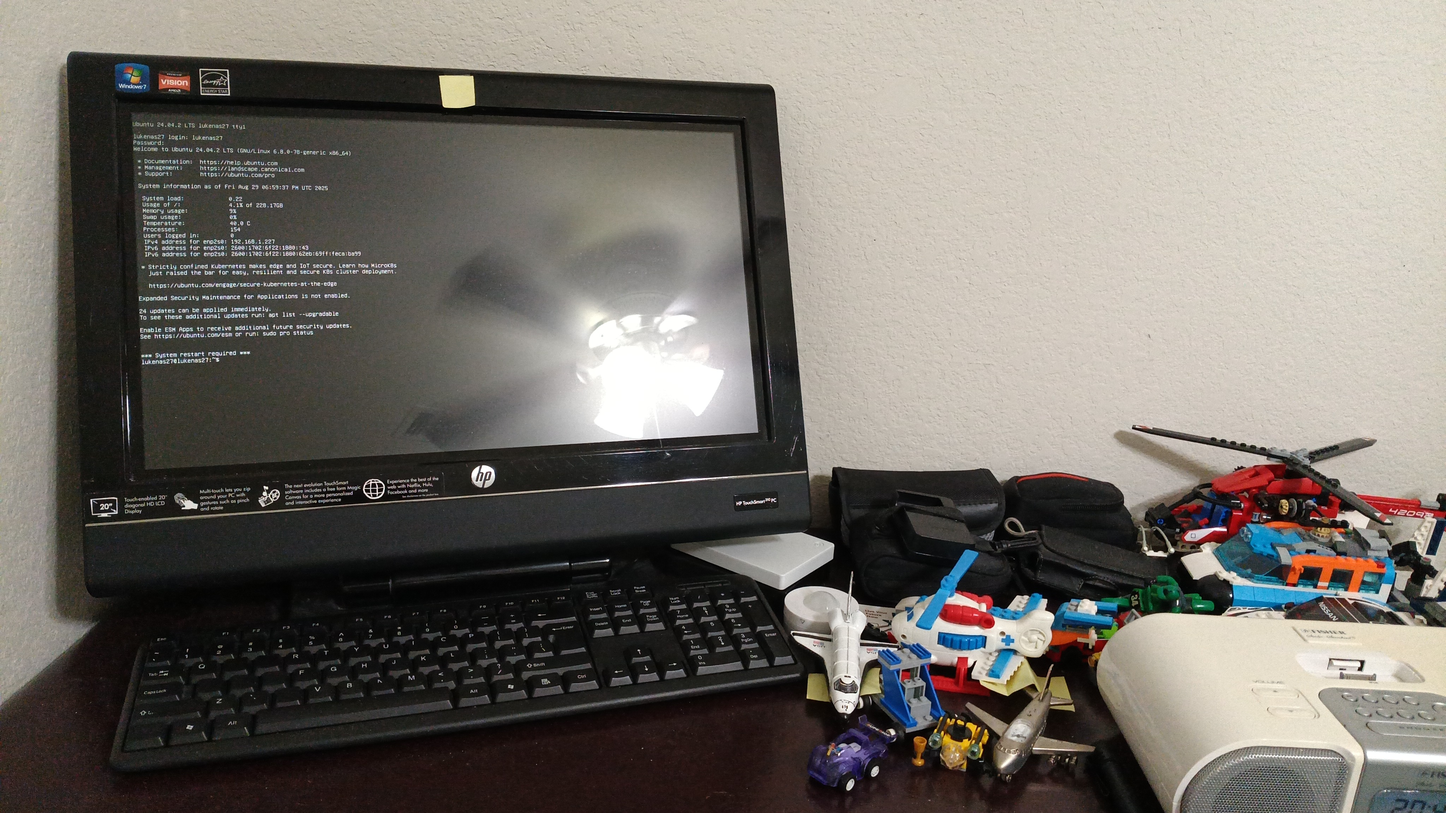
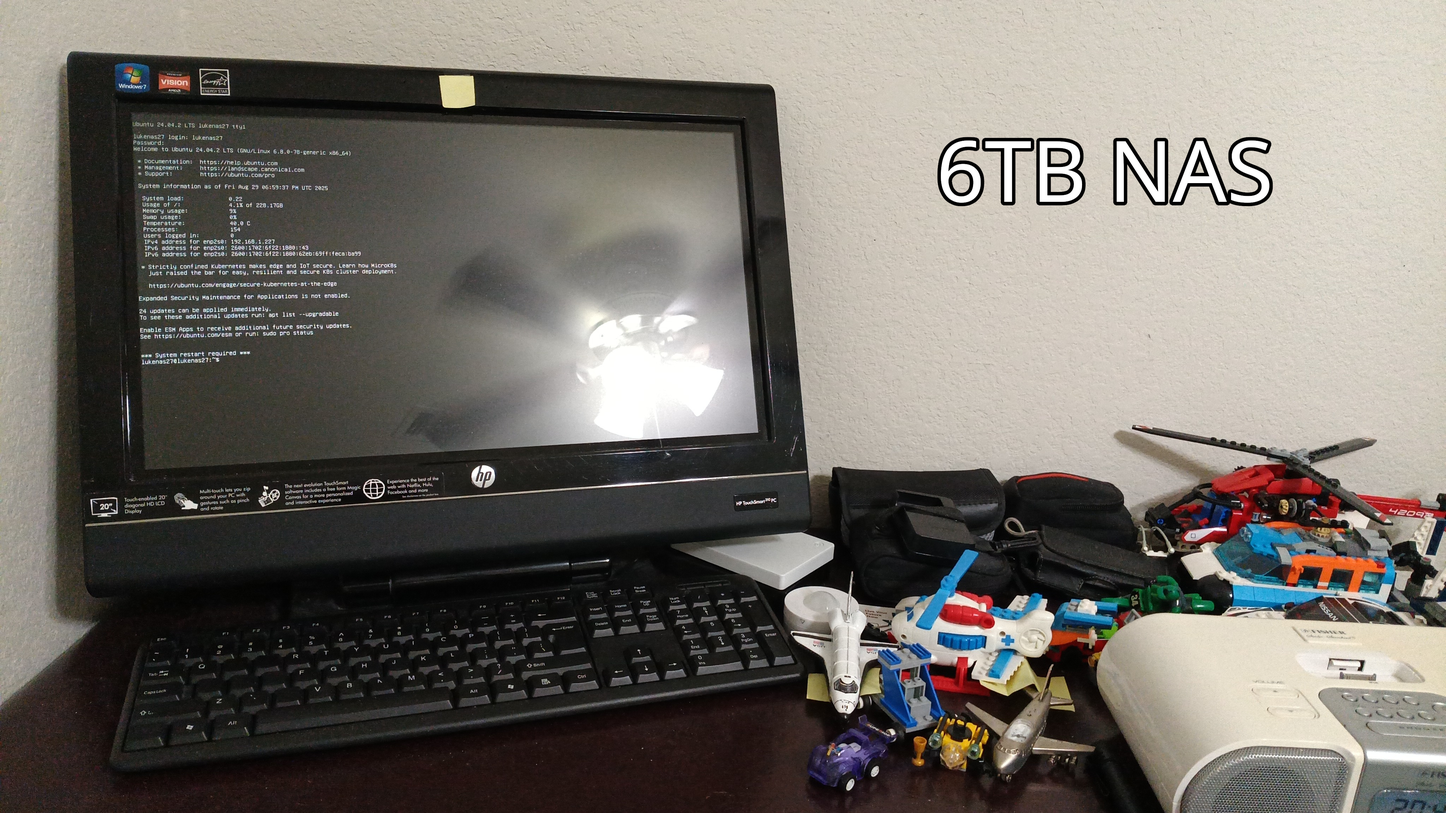
Add files via upload

Changed region(s): [[0.625, 0.1562, 0.9062, 0.25]]

diff --git a/Blogs/HP-310 touchsmart PC 6TB home-made NAS/hp310 6tb nas update.html b/Blogs/HP-310 touchsmart PC 6TB home-made NAS/hp310 6tb nas update.html
@@ -4,7 +4,8 @@
         <meta charset="utf-8">
         <meta name="viewport" content="width=device-width, initial-scale=1.0">
         <title>HP-310 touchsmart PC 6TB home-made NAS</title>
-        <link rel="stylesheet" href="../blog pages.css">   
+        <link rel="stylesheet" href="../blog pages.css">
+        <link rel="stylesheet" href="../image slideshow.css">   
     </head>
     <body>
         <a href="../justakuleguy_blogs.html"><button>Back to blog list</button></a>
@@ -28,7 +29,7 @@
         - Connecting my NAS to my devices<br>
         - Using Tailscale for remote access<br>
         </h3>
-        <h3>I will be regurgitating some info here for the purpose of putting it in blog form and to educate the people who have not watched my video some necessary information for my NAS update. So without furthur ado...</h3>
+        <h3>I will be regurgitating the info here for the purpose of putting it in blog form and to educate the people who have not watched my video some necessary information for my NAS update. So without furthur ado...</h3>
         <br>
         <h1>What is a NAS?</h1>
         <h3>A NAS stands for: <a href="https://en.wikipedia.org/wiki/Network-attached_storage" target="_blank">Network Attached Storage</a>, and it's basically an external hard drive but smarter.<br>
@@ -36,8 +37,65 @@
         </h3>
         <br>
         <h1>What did I change this time?</h1>
+        <h3>To be honest, not much really. I just changed the computer from my Toshiba Satellite L455-S5980 to my HP-310 Touchsmart AIO PC and moved the hard drives around for a backup. The NAS is now 6TB instead of 12TB. I use the 2.5 external 2TB and a 4TB drives for the NAS and I use the 6TB Expansion drive as the backup.</h3>
+        
+        <!-- Slideshow container -->
+        <div class="slideshow-container">
+
+        <!-- Full-width images with number and caption text -->
+        <div class="mySlides">
+            <div class="numbertext">1 / 5</div>
+            <img src="hp310 nas - server image 2.jpg" style="width:100%">
+            <div class="text">HP310 Touchsmart AIO PC as NAS</div>
+        </div>
+
+        <div class="mySlides">
+            <div class="numbertext">2 / 5</div>
+            <img src="hp310 nas - 2.5 drives front.JPG" style="width:100%">
+            <div class="text">4TB and 2TB drives front</div>
+        </div>
+
+        <div class="mySlides">
+            <div class="numbertext">3 / 5</div>
+            <img src="hp310 nas - 2.5 drives back.JPG" style="width:100%">
+            <div class="text">4TB and 2TB drives back</div>
+        </div>
+
+        <div class="mySlides">
+            <div class="numbertext">4 / 5</div>
+            <img src="hp310 nas - 6tb drive 1.JPG" style="width:100%">
+            <div class="text">6TB backup drive on my desk</div>
+        </div>        
+
+        <div class="mySlides">
+            <div class="numbertext">5 / 5</div>
+            <img src="hp310 nas - 6tb drive 2.JPG" style="width:100%">
+            <div class="text">6TB drive as the NAS backup</div>
+        </div>
+
+        <!-- Next and previous buttons -->
+        <a class="prev" onclick="plusSlides(-1)">&#10094;</a>
+        <a class="next" onclick="plusSlides(1)">&#10095;</a>
+        </div>
+        <br>
+
+        <!-- The dots/circles -->
+        <div style="text-align:center">
+        <span class="dot" onclick="currentSlide(1)"></span>
+        <span class="dot" onclick="currentSlide(2)"></span>
+        <span class="dot" onclick="currentSlide(3)"></span>
+        <span class="dot" onclick="currentSlide(4)"></span>
+        <span class="dot" onclick="currentSlide(5)"></span>
+        </div>
+
+        <h3>As for the computer, I chose it because it has a better cpu and it has more ram. Although, the compromise is that it's bigger than my Toshiba laptop.<br>
+        Anyways, here are the specs:
+
+        </h3>
+
         </article>
     
+    <script src="../image slideshow.js"></script>
     <script src="../../darkmode.js"></script>
     </body>
 </html>

diff --git a/Blogs/QALC - Linux terminal math calculator/qalc linux terminal calculator.html b/Blogs/QALC - Linux terminal math calculator/qalc linux terminal calculator.html
@@ -24,7 +24,7 @@
         <h3>On Windows I would use the built-in calculator app because it's what I'm used to, but on Linux I would use the terminal.</h3>
         <h3>Now yes, there are built-in calculator apps for most Linux distros. See below.</h3>
 
-         <!-- Slideshow container -->
+        <!-- Slideshow container -->
         <div class="slideshow-container">
 
         <!-- Full-width images with number and caption text -->

diff --git a/Blogs/blog pages.css b/Blogs/blog pages.css
@@ -63,6 +63,10 @@ img {
     float: none;
     margin: 0 0 1rem 0;
 }
+
+iframe {
+    width: 80%;
+}
 }
 
 /* Phone query */
@@ -82,5 +86,9 @@ img {
     width: 100%;
     float: none;
     margin: 0 0 1rem 0;
+}
+
+iframe {
+    width: 100%;
 }
 }
